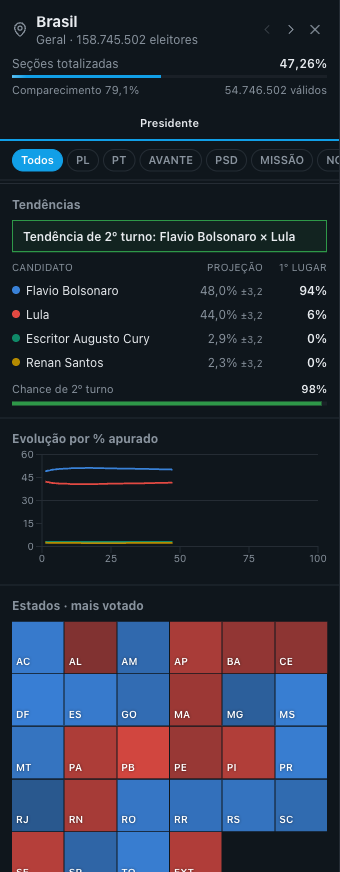
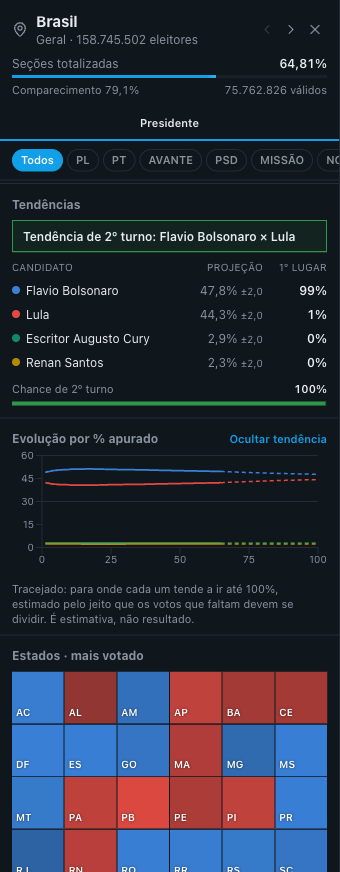
Atualiza as telas do README e explica a tendência dos gráficos
Prints com 65% apurado; a página do candidato e a evolução aparecem com a tendência ligada.

diff --git a/README.md b/README.md
@@ -96,6 +96,12 @@ A versão de 2024 deste projeto errava a divisão em uma de cada três cidades.
 ### Evolução e atualizações
 
 O gráfico de evolução mostra a porcentagem de cada candidato conforme a contagem avança.
+
+O botão **Mostrar tendência** desenha, tracejado, pra onde cada linha tende a ir até 100%.
+Não é esticar a linha: a conta estima como os votos que faltam devem se dividir e soma isso ao que cada um já tem.
+No Brasil, ela olha estado por estado o quanto falta apurar e como cada um vem votando.
+Nos estados e cidades, ela usa como foram os votos apurados por último, que mostram o perfil das urnas que tão chegando.
+O ponto final do tracejado é a mesma projeção da tabela de tendências.
 Na coluna do Brasil ainda tem o mapa dos estados, pintado com a cor de quem tá na frente em cada um - quanto mais forte, mais apurado.
 Embaixo fica um resumo do que aconteceu: quando a apuração passou de 10%, 25%, 50% e assim por diante, e quando alguém passou outro candidato.
 
